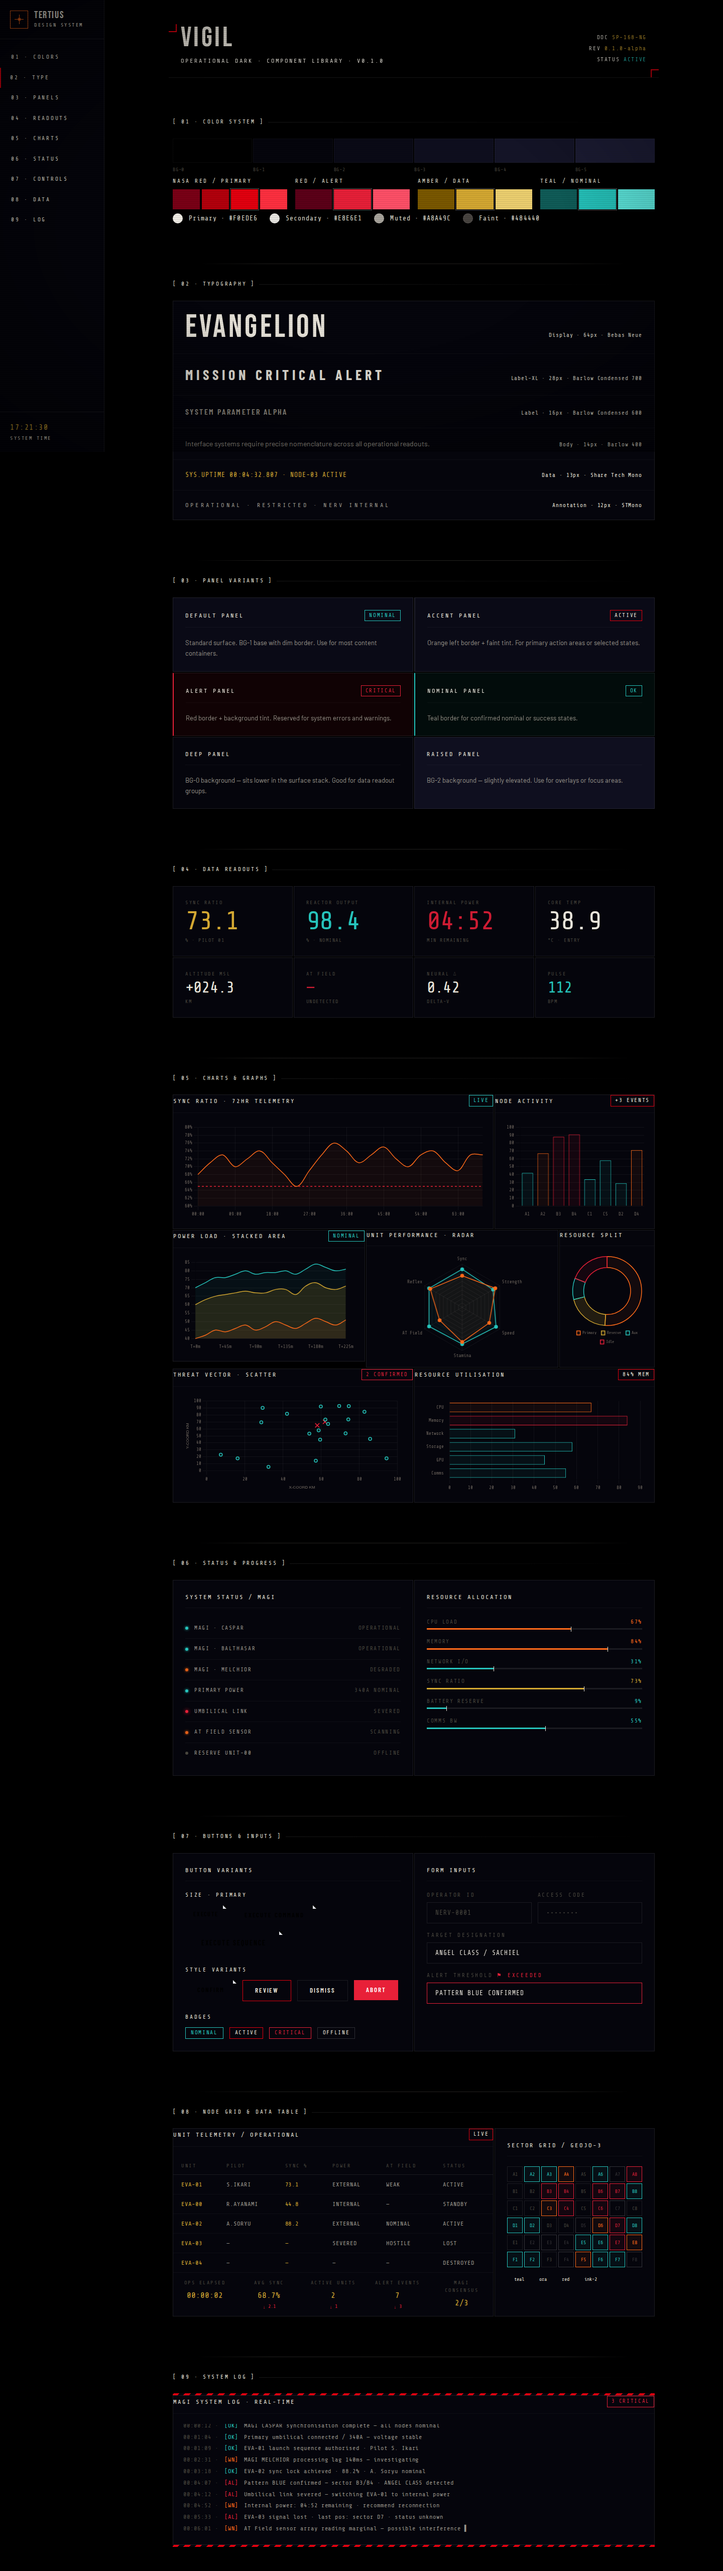
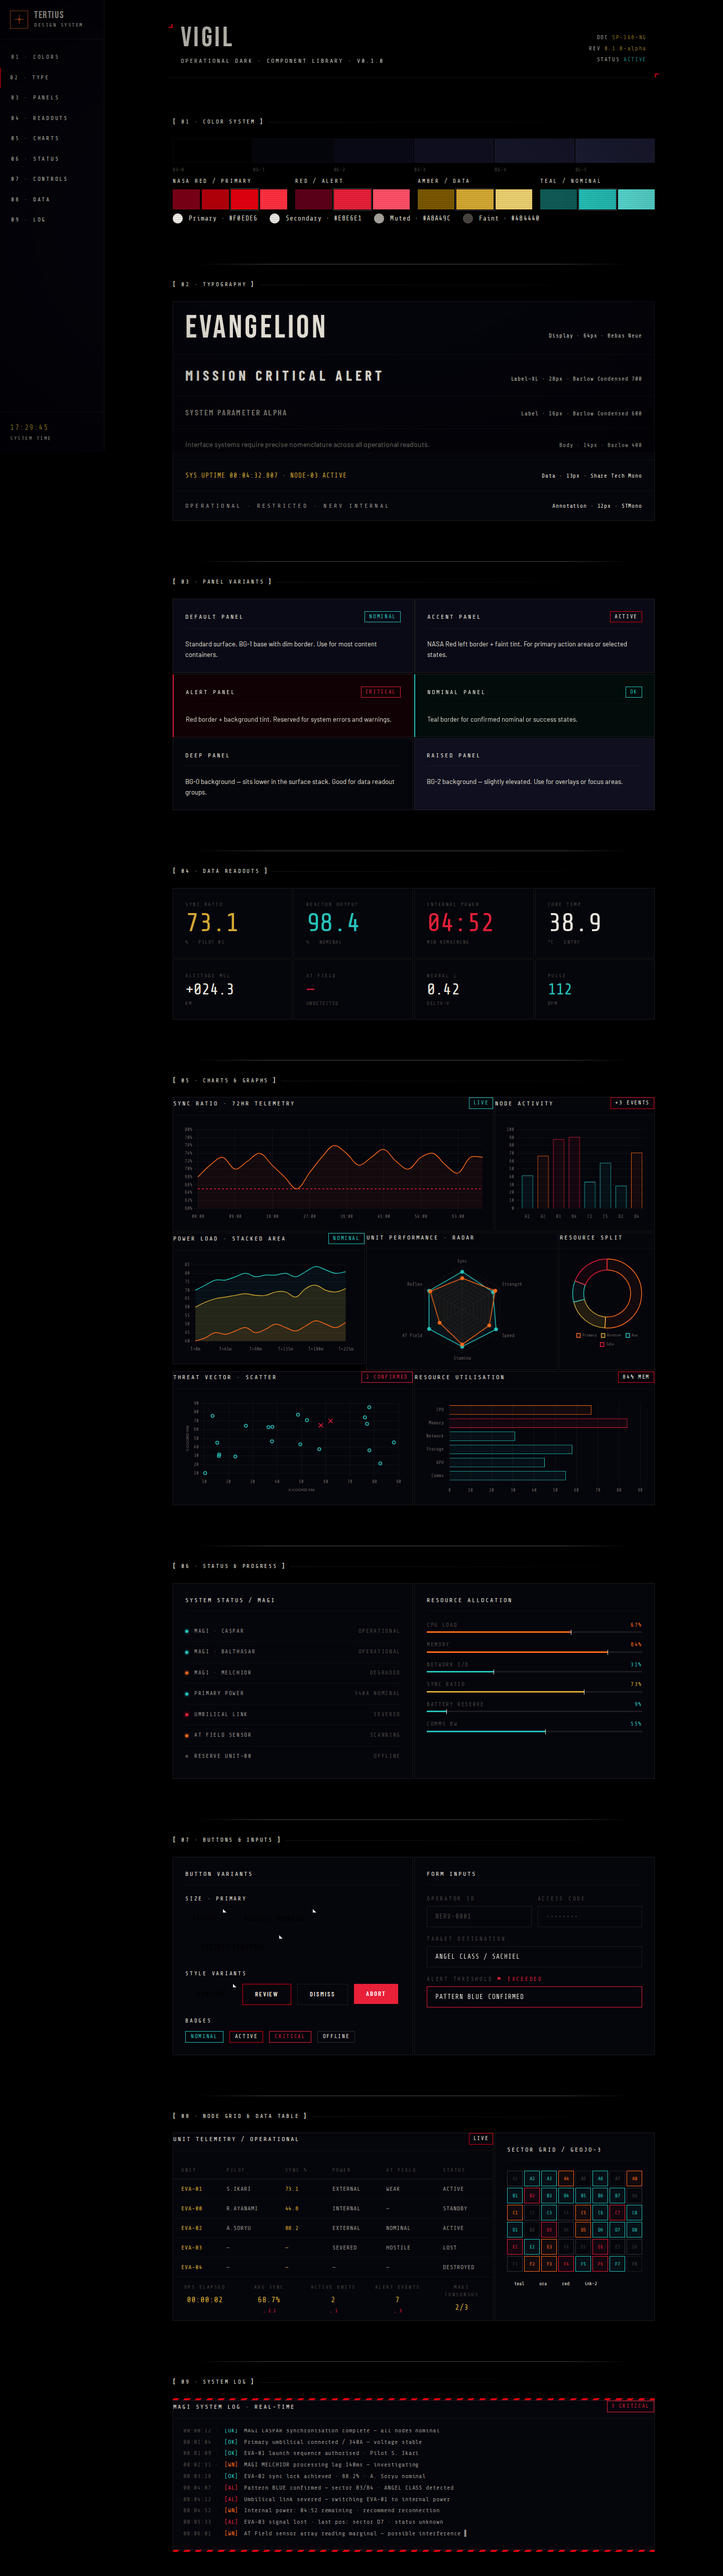
fix: improve corner notches and text contrast
- Corner notches: 8px L-shapes with 3px NASA Red stroke (was 5px/2px)
- Breathing space dividers: 2px (was 1px)
- Panel titles: ink-0 instead of warm-1
- Metadata labels: warm-1 instead of warm-3
- Section label numbers: warm-1 for readability
- Fix duplicate CSS in app.css

Changed region(s): [[0.7188, 0.8436, 0.875, 0.8748]]

diff --git a/src/routes/+page.svelte b/src/routes/+page.svelte
@@ -276,7 +276,7 @@
     <!-- Clock footer -->
     <div class="border-b1 border-t p-5 font-data text-[10px] tracking-wider text-warm-2">
       <div class="text-[15px] tabular-nums text-amb">{clock}</div>
-      <div class="mt-0.5 text-[10px] uppercase tracking-widest text-warm-3">System Time</div>
+      <div class="mt-0.5 text-[10px] uppercase tracking-widest text-warm-2">System Time</div>
     </div>
   </nav>
 
@@ -291,7 +291,7 @@
             Operational Dark · Component Library · v0.1.0
           </div>
         </div>
-        <div class="text-right font-data text-[11px] leading-loose tracking-wider text-warm-2">
+        <div class="text-right font-data text-[11px] leading-loose tracking-wider text-warm-1">
           DOC <span class="text-amb">SP-168-NG</span><br />
           REV <span class="text-amb">0.1.0-alpha</span><br />
           STATUS <span class="text-teal">ACTIVE</span>
@@ -353,7 +353,7 @@
               class="border-b0 flex items-baseline justify-between gap-4 border-b px-6 py-5 last:border-b-0"
             >
               <div class={row.cls}>{row.sample}</div>
-              <div class="flex-shrink-0 font-data text-[11px] tracking-wide text-warm-3">
+              <div class="flex-shrink-0 font-data text-[11px] tracking-wide text-warm-1">
                 {row.meta}
               </div>
             </div>
@@ -367,32 +367,32 @@
         <SectionLabel number="03">Panel Variants</SectionLabel>
         <div class="grid grid-cols-2 gap-0.5">
           <Panel title="Default Panel" badge="NOMINAL" badgeVariant="ok">
-            <p class="font-body text-[13px] leading-relaxed text-ink-1">
+            <p class="font-body text-[13px] leading-relaxed text-ink-0">
               Standard surface. BG-1 base with dim border. Use for most content containers.
             </p>
           </Panel>
           <Panel variant="accent" title="Accent Panel" badge="ACTIVE" badgeVariant="warn">
-            <p class="font-body text-[13px] leading-relaxed text-ink-1">
-              Orange left border + faint tint. For primary action areas or selected states.
+            <p class="font-body text-[13px] leading-relaxed text-ink-0">
+              NASA Red left border + faint tint. For primary action areas or selected states.
             </p>
           </Panel>
           <Panel variant="alert" title="Alert Panel" badge="CRITICAL" badgeVariant="alert">
-            <p class="font-body text-[13px] leading-relaxed text-ink-1">
+            <p class="font-body text-[13px] leading-relaxed text-ink-0">
               Red border + background tint. Reserved for system errors and warnings.
             </p>
           </Panel>
           <Panel variant="teal" title="Nominal Panel" badge="OK" badgeVariant="ok">
-            <p class="font-body text-[13px] leading-relaxed text-ink-1">
+            <p class="font-body text-[13px] leading-relaxed text-ink-0">
               Teal border for confirmed nominal or success states.
             </p>
           </Panel>
           <Panel variant="deep" title="Deep Panel">
-            <p class="font-body text-[13px] leading-relaxed text-ink-1">
+            <p class="font-body text-[13px] leading-relaxed text-ink-0">
               BG-0 background — sits lower in the surface stack. Good for data readout groups.
             </p>
           </Panel>
           <Panel variant="raised" title="Raised Panel">
-            <p class="font-body text-[13px] leading-relaxed text-ink-1">
+            <p class="font-body text-[13px] leading-relaxed text-ink-0">
               BG-2 background — slightly elevated. Use for overlays or focus areas.
             </p>
           </Panel>

diff --git a/src/app.css b/src/app.css
@@ -83,8 +83,9 @@
     background: linear-gradient(to right, rgba(255, 255, 255, 0.09), transparent);
   }
 
-  /* NASA header corner notches — 5px visible L-shapes */
+  /* NASA header — positioned relative for corner notches */
   .nasa-header {
+    position: relative;
     padding: 0 1.5rem 1.5rem;
     margin: 0 -0.5rem;
   }
@@ -93,28 +94,20 @@
     position: absolute;
     left: 0;
     top: 0;
-    width: 5px;
-    height: 5px;
-    border-bottom: 2px solid #e3000f;
-    border-right: 2px solid #e3000f;
+    width: 8px;
+    height: 8px;
+    border-bottom: 3px solid #e3000f;
+    border-right: 3px solid #e3000f;
   }
   .nasa-header::after {
     content: '';
     position: absolute;
     right: 0;
     bottom: 0;
-    width: 5px;
-    height: 5px;
-    border-top: 2px solid #e3000f;
-    border-left: 2px solid #e3000f;
-  }
-  .nasa-header::before {
-    content: '';
-    @apply absolute left-0 top-0 h-4 w-4 border-b-2 border-r-2 border-nasa;
-  }
-  .nasa-header::after {
-    content: '';
-    @apply absolute bottom-0 right-0 h-4 w-4 border-l-2 border-t-2 border-nasa;
+    width: 8px;
+    height: 8px;
+    border-top: 3px solid #e3000f;
+    border-left: 3px solid #e3000f;
   }
 
   /* Warning stripe pattern — NASA Red */
@@ -123,14 +116,14 @@
     background: repeating-linear-gradient(-45deg, #e3000f 0 8px, #05050c 8px 16px);
   }
 
-  /* Breathing space divider — warm gray horizontal rule */
+  /* Breathing space divider — warm gray horizontal rule, 2px */
   .breathing-space {
-    height: 1px;
+    height: 2px;
     background: linear-gradient(
       to right,
       transparent 5%,
-      rgba(168, 162, 150, 0.2) 20%,
-      rgba(168, 162, 150, 0.2) 80%,
+      rgba(168, 162, 150, 0.25) 20%,
+      rgba(168, 162, 150, 0.25) 80%,
       transparent 95%
     );
   }

diff --git a/src/lib/components/SectionLabel.svelte b/src/lib/components/SectionLabel.svelte
@@ -6,10 +6,10 @@
 </script>
 
 <div class="section-label font-data text-[11px] uppercase tracking-widest">
-  <span class="text-nasa">&#x5B;</span><!--
-  -->{#if number}<span class="text-warm-3"
+  <span class="font-bold text-nasa">&#x5B;</span><!--
+  -->{#if number}<span class="text-warm-1"
       >{number} ·</span
     >{/if}<!--
   --><slot /><!--
-  --><span class="text-nasa">&#x5D;</span>
+  --><span class="font-bold text-nasa">&#x5D;</span>
 </div>

diff --git a/src/lib/components/Panel.svelte b/src/lib/components/Panel.svelte
@@ -49,7 +49,7 @@
   {#if title || badge}
     <div class="border-b0 mb-5 flex items-center justify-between border-b pb-3">
       {#if title}
-        <span class="font-data text-[12px] uppercase tracking-widest text-warm-1">{title}</span>
+        <span class="font-data text-[12px] uppercase tracking-widest text-ink-0">{title}</span>
       {/if}
       {#if badge}
         <span
